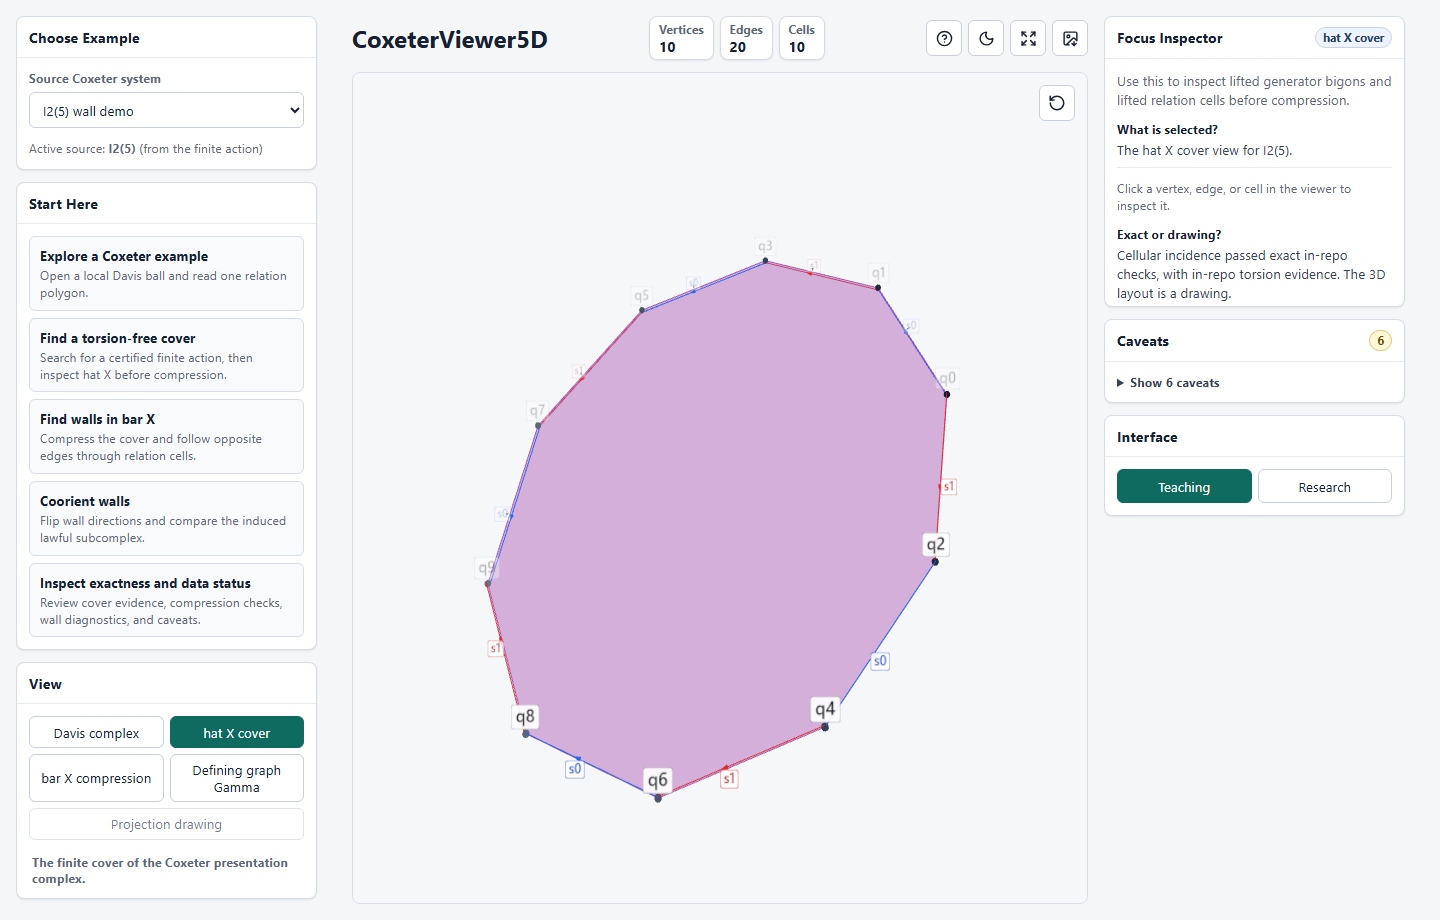
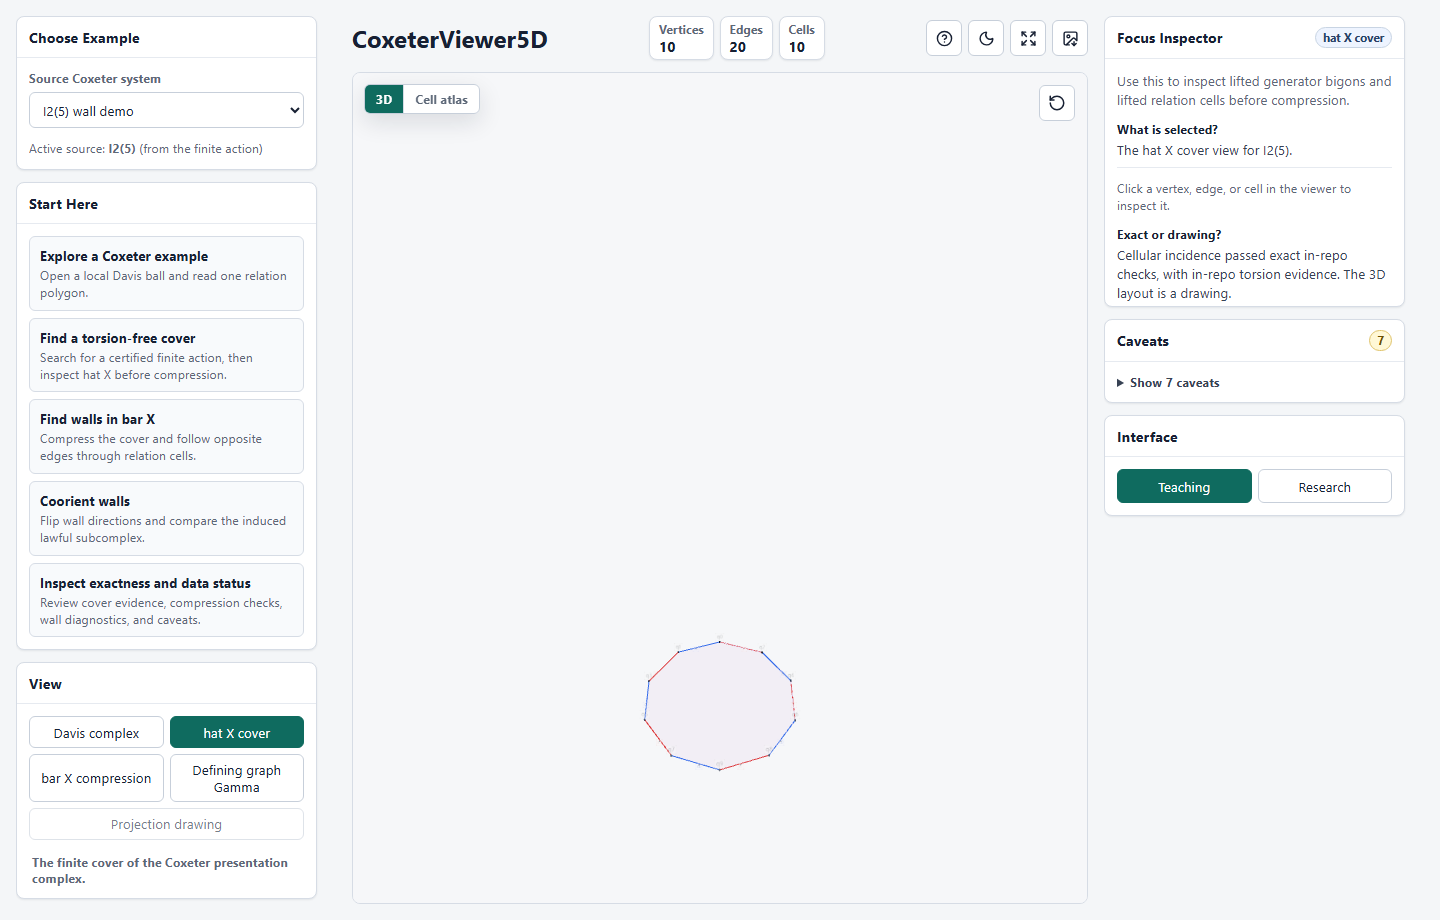
docs: describe the cell atlas and unit cell views; refresh cover screenshots

Changed region(s): [[0.3125, 0.2739, 0.6562, 0.8826], [0.25, 0.0913, 0.3438, 0.1217]]

diff --git a/docs/ui-controls.md b/docs/ui-controls.md
@@ -53,6 +53,79 @@ walls instead of generators.
 The sentence below the buttons describes the active layer. The Focus Inspector
 contains the longer explanation.
 
+### Cell atlas (hat X and bar X)
+
+In hat X and bar X a **3D | Cell atlas** switch sits at the top left of the
+viewer (below **Show controls** in viewer-only mode). The 3D drawing cannot
+show every relation cell undistorted: in the ideal 3-cube cover each 6-vertex
+S3 coset carries three hexagons, the three Hamiltonian 6-cycles of `K_{3,3}`
+for the three generator pairs, and no placement of six points makes all three
+convex. The cell atlas draws each relation cell separately as a regular
+`2m`-gon read from its exact boundary word:
+
+- sections per relation family `{s_i, s_j}` (title `t12–t13, m = 3 · 4 cells`),
+  with a family filter and a vertex-label text filter;
+- sides coloured and labelled by generator; corners labelled by cover vertex.
+  Each cycle starts at its smallest vertex label (code-point order) and keeps
+  the stored boundary direction, so cells of one family read alike;
+- in bar X, with a coorientation: arrows on each side, a triangle at the source
+  corner and a square at the sink corner of lawful cells, faint cards for cells
+  the lawful subcomplex discards, and the selected wall's dual edges and arcs
+  dashed in the wall colour;
+- hovering a corner or a side highlights every cell containing that vertex or
+  edge and reports the count. This is how the atlas shows the gluing without
+  drawing the cells glued;
+- clicking a card selects the same cell id as the 3D scene, so the inspector
+  describes it and the 3D view highlights it. If the bar X relation-family
+  filter hides that family, the filter switches to it.
+
+hat X generator bigons are not drawn; the atlas states their count. Polygon
+shape inside a card is a drawing convention; words, corners and shared-cell
+counts are exact.
+
+### Unit cell (Davis complex, with a cover loaded)
+
+bar X = `H\Σ` cannot be drawn in 3D without overlaps, but its universal cover,
+the Davis complex, can. With a finite cover loaded, the Davis model has a
+**Ball | Unit cell** switch at the top left of the viewer. **Unit cell** draws a
+fundamental domain `D` of the torsion-free subgroup `H` in the Davis complex,
+like a crystallographic unit cell or a polygon with side pairings: local
+geometry is read inside `D`, global topology from the gluing labels.
+
+- **Representatives (Dirichlet type).** `D` has one chamber per coset (per bar X
+  vertex). It is grown outward from the base chamber `e`: among the chambers
+  adjacent to `D` whose coset is not yet represented, the one nearest `e` joins
+  next (hyperbolic distance `d(x0, w·x0)` for systems with reflection data,
+  Euclidean distance in the Tits representation for finite groups, word length
+  otherwise; ties go to the shorter, then lexicographically smaller word). `D`
+  is therefore connected, and the accepting edges form a spanning tree of the
+  coset graph. Domain vertices carry their bar X labels; selecting one selects
+  the same bar X vertex, so switching to bar X keeps the selection. The
+  **Unit-cell chamber** select in the Labels panel picks one by keyboard.
+- **Ghosts.** A chamber just outside `D` is a ghost, labelled `≡ (12)(34)`: it is
+  `H`-equivalent to the representative of that coset. Selecting a domain
+  vertex lights all of its ghosts in the selection colour.
+- **Gluing tags.** An edge leaving `D` is a dashed stub. The two stubs that lift
+  one bar X edge carry the same tag, `a` and `a′` (letters skip `e`, the name of
+  the identity chamber), and a tag colour that avoids the generator colours.
+  Selecting a stub or its tag highlights its partner and labels the ghosts at
+  both ends. Edges of bar X whose lift stays inside `D` are drawn solid.
+- **Cells.** Each bar X relation cell is drawn once, lifted from the
+  representative of its first boundary vertex, and shares its id with bar X and
+  the cell atlas. Cells wholly inside `D` have the normal fill; cells crossing
+  the boundary are faint, with their outside edges dotted.
+- **Show neighbouring copies** (Labels panel) adds faint translates `h·D`,
+  `h ∈ H`, across the gluings (capped), so the tiling around `D` is visible.
+  Hyperbolic copies shrink toward the ideal boundary in the projection.
+
+The camera opens on an oblique three-quarter view of `D` (reset returns to
+it). The badge reads `Unit cell: N chambers, M gluing pairs`. Exact: the
+cosets, representatives, gluings and cell boundaries, all from the finite
+action. Drawing: positions are the reflection orbit, as in the Ball view.
+Whether two words name the same drawn chamber is decided in floating point,
+by comparing their Tits-representation matrices to relative precision `1e-7`;
+this only affects which drawn points coincide, never a gluing.
+
 ## Covers + Walls
 
 The panel reads from top to bottom in the order of the construction: a short

diff --git a/docs/viewer-design.md b/docs/viewer-design.md
@@ -40,6 +40,20 @@ Shows a finite Cayley ball, rank-two Davis polygons, and available higher
 spherical incidence. The radius boundary is visible and clipped cells are
 labeled as omitted or partial.
 
+With a finite cover loaded, the **Unit cell** view (`src/davis/unitCell.ts`,
+`src/app/unitCellScene.ts`) draws a Dirichlet-type fundamental domain `D` of
+`H` instead of a ball: one chamber per coset, grown outward from `e` by a
+best-first search that adds the nearest adjacent chamber of a new coset, so
+`D` is connected and its accepting edges are a spanning tree of the coset
+graph. Edges leaving `D` become pairs of tagged stubs (`a`, `a′`) that `H`
+glues; chambers just outside are ghosts labelled by the coset they are
+`H`-equivalent to; each bar X relation cell is lifted once; neighbouring
+copies `h·D` are optional faint context. Combinatorics and gluings come from
+the exact finite action. Positions reuse the reflection-orbit layout, and the
+only floating-point decision, whether two words name the same chamber, is a
+named Tits-matrix comparison that affects drawing coincidence only. The
+default camera is an oblique view along the domain's principal axes.
+
 ### hat X cover
 
 Shows the finite lifted presentation complex before compression:
